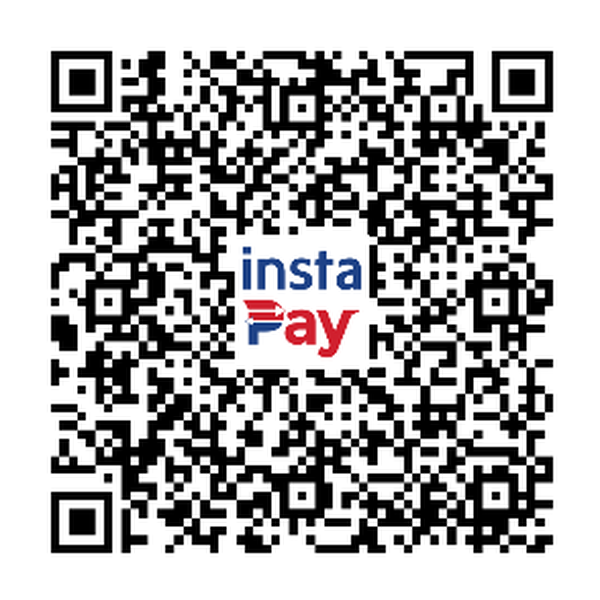
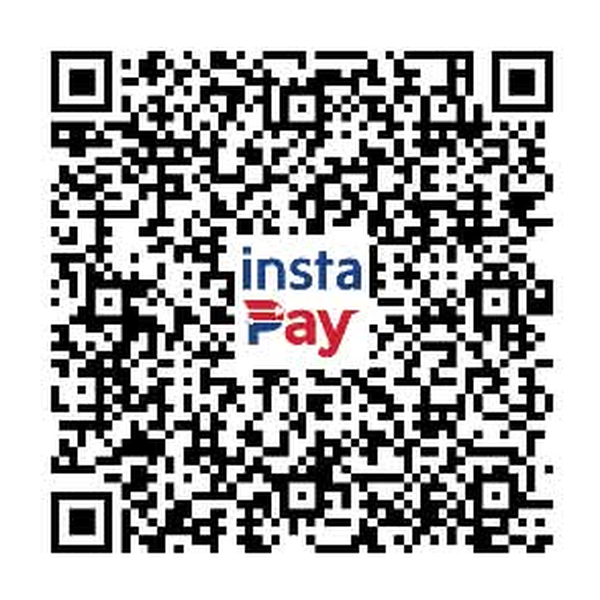
new QR codes with P999 encoded, and Maya as a fourth method
The amount is baked into the code now, so a customer scanning one cannot
mistype it. That removes the most likely way a payment arrives wrong and
has to be chased through Messenger - and it is worth more than any
redirect, because scanning now completes the payment rather than starting
it.

Each was cropped by locating the code rather than by decoding it: BPI's
QR has never decoded under OpenCV, and Maya's is dense enough that the
logo overlay defeats it too, but both are perfectly findable. Neither is
downscaled any more - losing modules on a dense code is how one stops
scanning.

GCash and GoTyme decode with the amount confirmed present. BPI and Maya
need testing on a phone; OpenCV is far weaker at this than a banking app.

Maya reuses the GCash mobile number, so the hints say what changed:
"Scan and the P999 is already filled in". The copyable Amount field now
only shows where there is no QR to carry it - beside one, it implies the
amount still has to be typed.

diff --git a/lib/payment.ts b/lib/payment.ts
@@ -6,10 +6,14 @@
 // A method only appears on the page once its details are filled in, so you can
 // launch with GCash alone and add the banks later without a code change.
 //
-// QR images: drop them in /public as qr-gcash.png, qr-bpi.png, qr-gotyme.png.
+// QR images live in /public as qr-<method>.png.
+//
+// These encode the ₱999 amount, so a customer scanning one cannot mistype it —
+// which removes the most likely way a payment arrives wrong and has to be
+// chased in Messenger.
 
 export interface PaymentMethod {
-  id: 'gcash' | 'bpi' | 'gotyme' | 'card';
+  id: 'gcash' | 'bpi' | 'gotyme' | 'maya' | 'card';
   label: string;
   hint: string;
   accountName: string;
@@ -45,7 +49,7 @@ const RAW: Array<Omit<PaymentMethod, 'hasQr'>> = [
   {
     id: 'gcash',
     label: 'GCash',
-    hint: 'Fastest — most people use this',
+    hint: 'Scan and the ₱999 is already filled in',
     accountName: process.env.NEXT_PUBLIC_GCASH_NAME ?? '',
     accountNumber: process.env.NEXT_PUBLIC_GCASH_NUMBER ?? '',
     qrSrc: '/qr-gcash.png',
@@ -53,7 +57,7 @@ const RAW: Array<Omit<PaymentMethod, 'hasQr'>> = [
   {
     id: 'bpi',
     label: 'BPI',
-    hint: 'Bank transfer or InstaPay',
+    hint: 'Scan and the ₱999 is already filled in',
     accountName: process.env.NEXT_PUBLIC_BPI_NAME ?? '',
     accountNumber: process.env.NEXT_PUBLIC_BPI_ACCOUNT ?? '',
     qrSrc: '/qr-bpi.png',
@@ -61,10 +65,18 @@ const RAW: Array<Omit<PaymentMethod, 'hasQr'>> = [
   {
     id: 'gotyme',
     label: 'GoTyme',
-    hint: 'Bank transfer or InstaPay',
+    hint: 'Scan and the ₱999 is already filled in',
     accountName: process.env.NEXT_PUBLIC_GOTYME_NAME ?? '',
     accountNumber: process.env.NEXT_PUBLIC_GOTYME_ACCOUNT ?? '',
     qrSrc: '/qr-gotyme.png',
+  },
+  {
+    id: 'maya',
+    label: 'Maya',
+    hint: 'Scan and the ₱999 is already filled in',
+    accountName: process.env.NEXT_PUBLIC_MAYA_NAME ?? '',
+    accountNumber: process.env.NEXT_PUBLIC_MAYA_NUMBER ?? '',
+    qrSrc: '/qr-maya.png',
   },
 ];
 
@@ -102,6 +114,7 @@ function payLinkFor(id: string): string | undefined {
     gcash: process.env.NEXT_PUBLIC_GCASH_LINK,
     bpi: process.env.NEXT_PUBLIC_BPI_LINK,
     gotyme: process.env.NEXT_PUBLIC_GOTYME_LINK,
+    maya: process.env.NEXT_PUBLIC_MAYA_LINK,
   };
   return links[id]?.trim() || undefined;
 }

diff --git a/components/PaymentPicker.tsx b/components/PaymentPicker.tsx
@@ -22,7 +22,7 @@ export default function PaymentPicker({ methods }: { methods: PaymentMethod[] })
   return (
     <div className="bg-white border border-slate-200 rounded-xl overflow-hidden">
       {methods.length > 1 && (
-        <div className="flex border-b border-slate-200" role="tablist">
+        <div className="grid grid-cols-4 border-b border-slate-200" role="tablist">
           {methods.map(m => (
             <button
               key={m.id}
@@ -33,7 +33,7 @@ export default function PaymentPicker({ methods }: { methods: PaymentMethod[] })
               // selecting one does not make it taller than its siblings. -mb-px
               // pulls it onto the container's own border instead of sitting
               // below it, which is what made the row look bent.
-              className={`flex-1 px-3 py-3 text-sm font-semibold transition-colors
+              className={`px-2 py-3 text-[13px] font-semibold transition-colors
                 border-b-2 -mb-px
                 ${m.id === active
                   ? 'text-slate-900 bg-slate-50 border-blue-600'
@@ -133,7 +133,9 @@ export default function PaymentPicker({ methods }: { methods: PaymentMethod[] })
                 copied={copied === current.accountNumber}
               />
             )}
-            <Field label="Amount" value="₱999" />
+            {/* Only when there is no QR to carry it: with the amount encoded,
+                a copyable "Amount" field implies it must be typed. */}
+            {!current.hasQr && <Field label="Amount" value="₱999" />}
           </div>
         </div>
       )}
